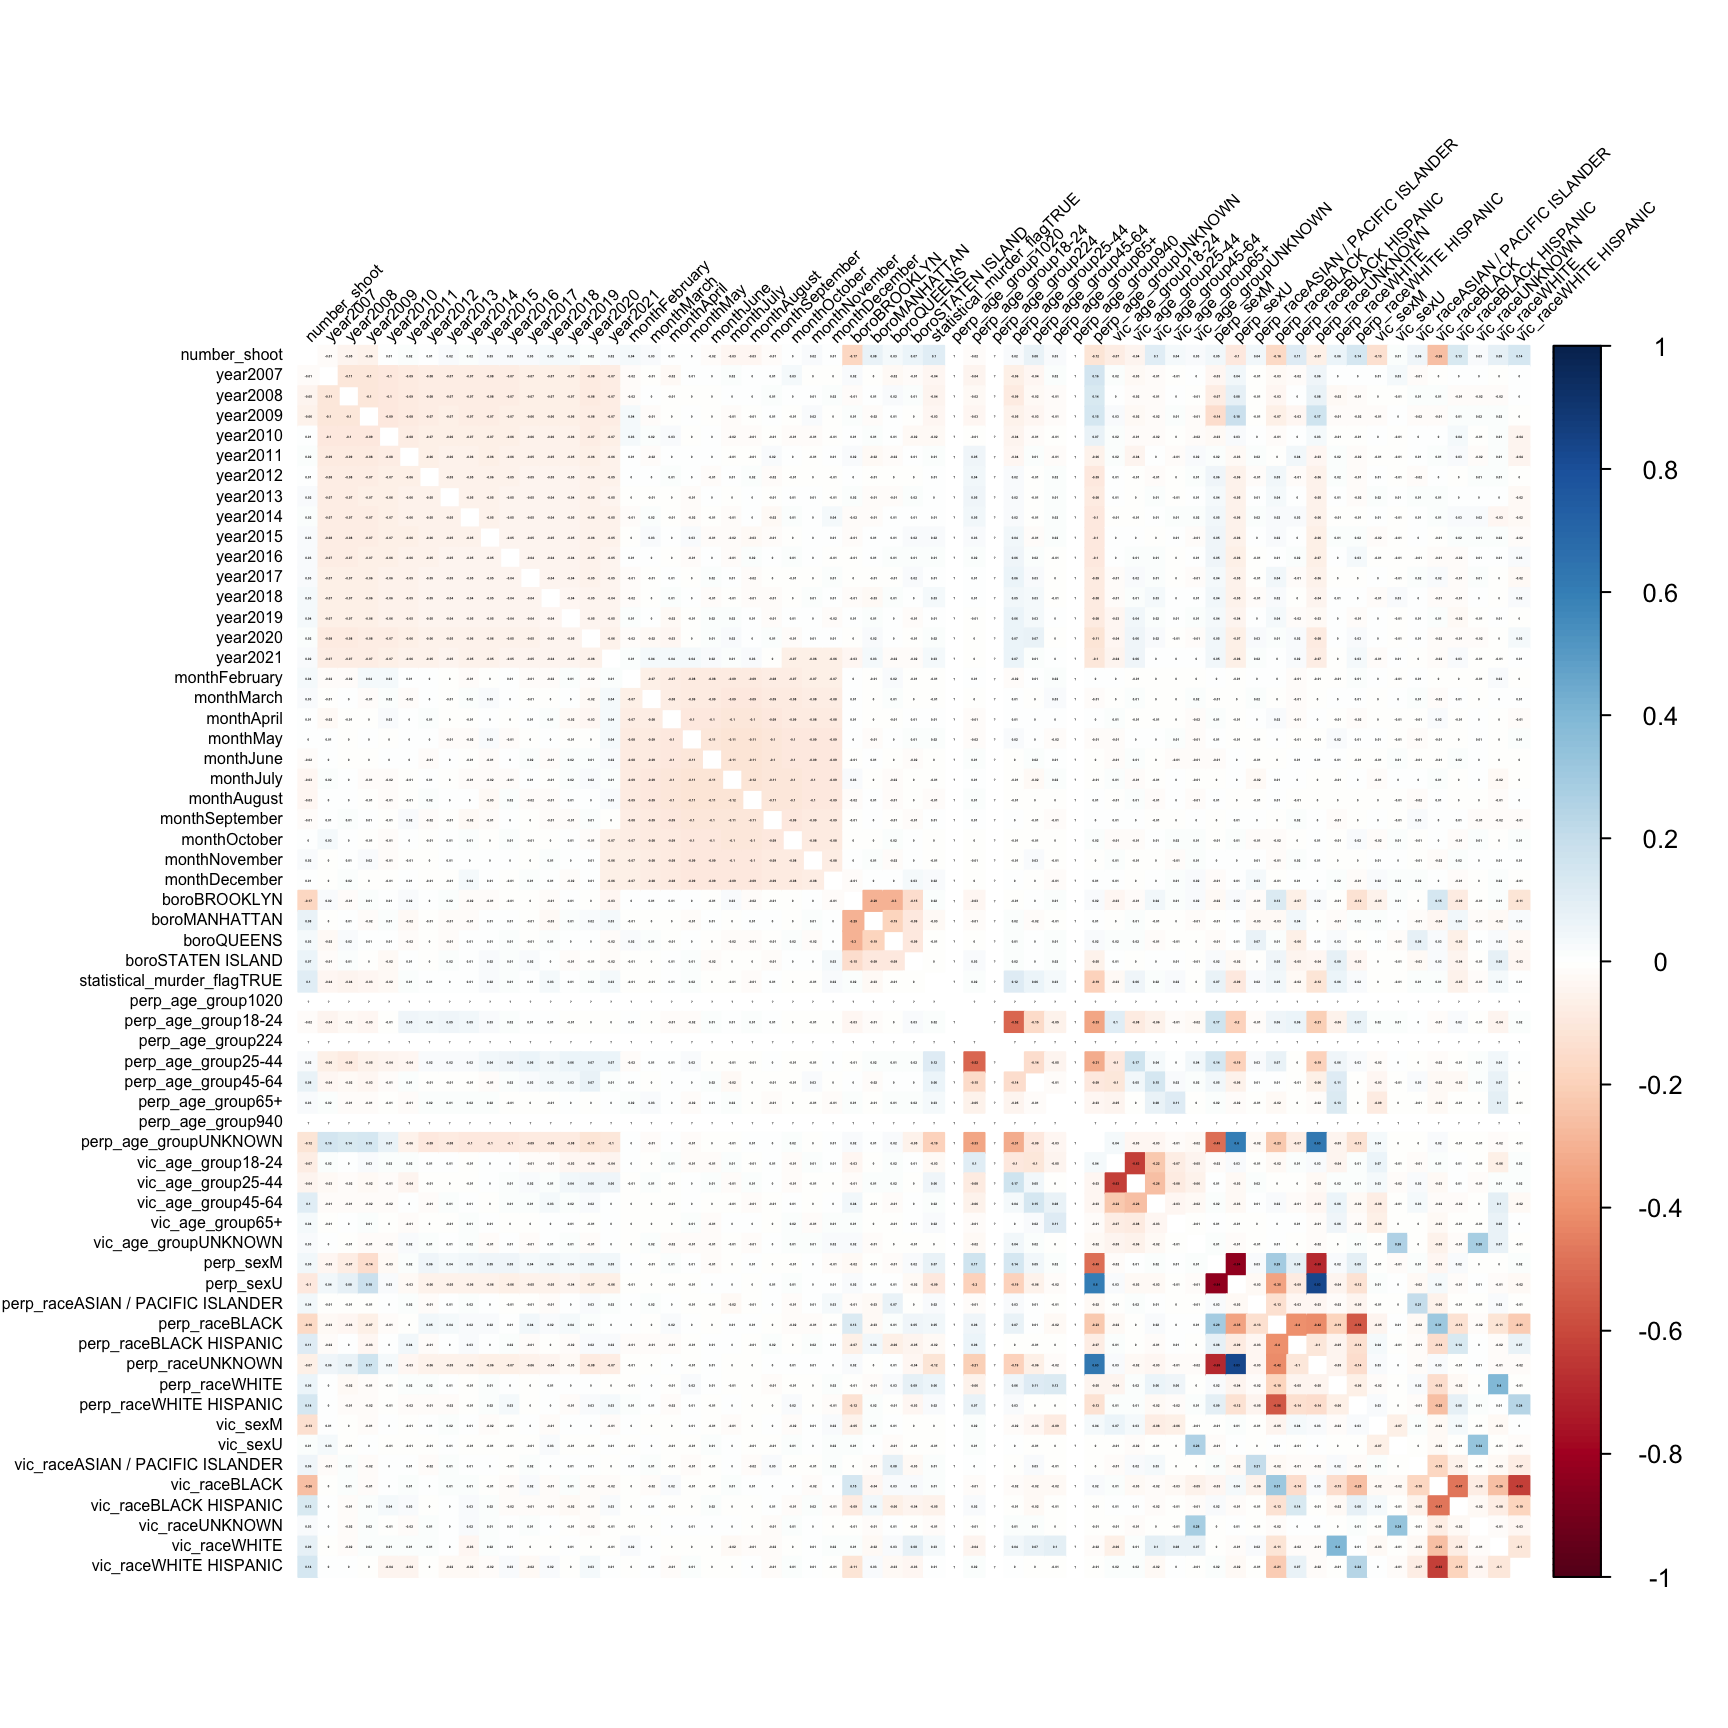
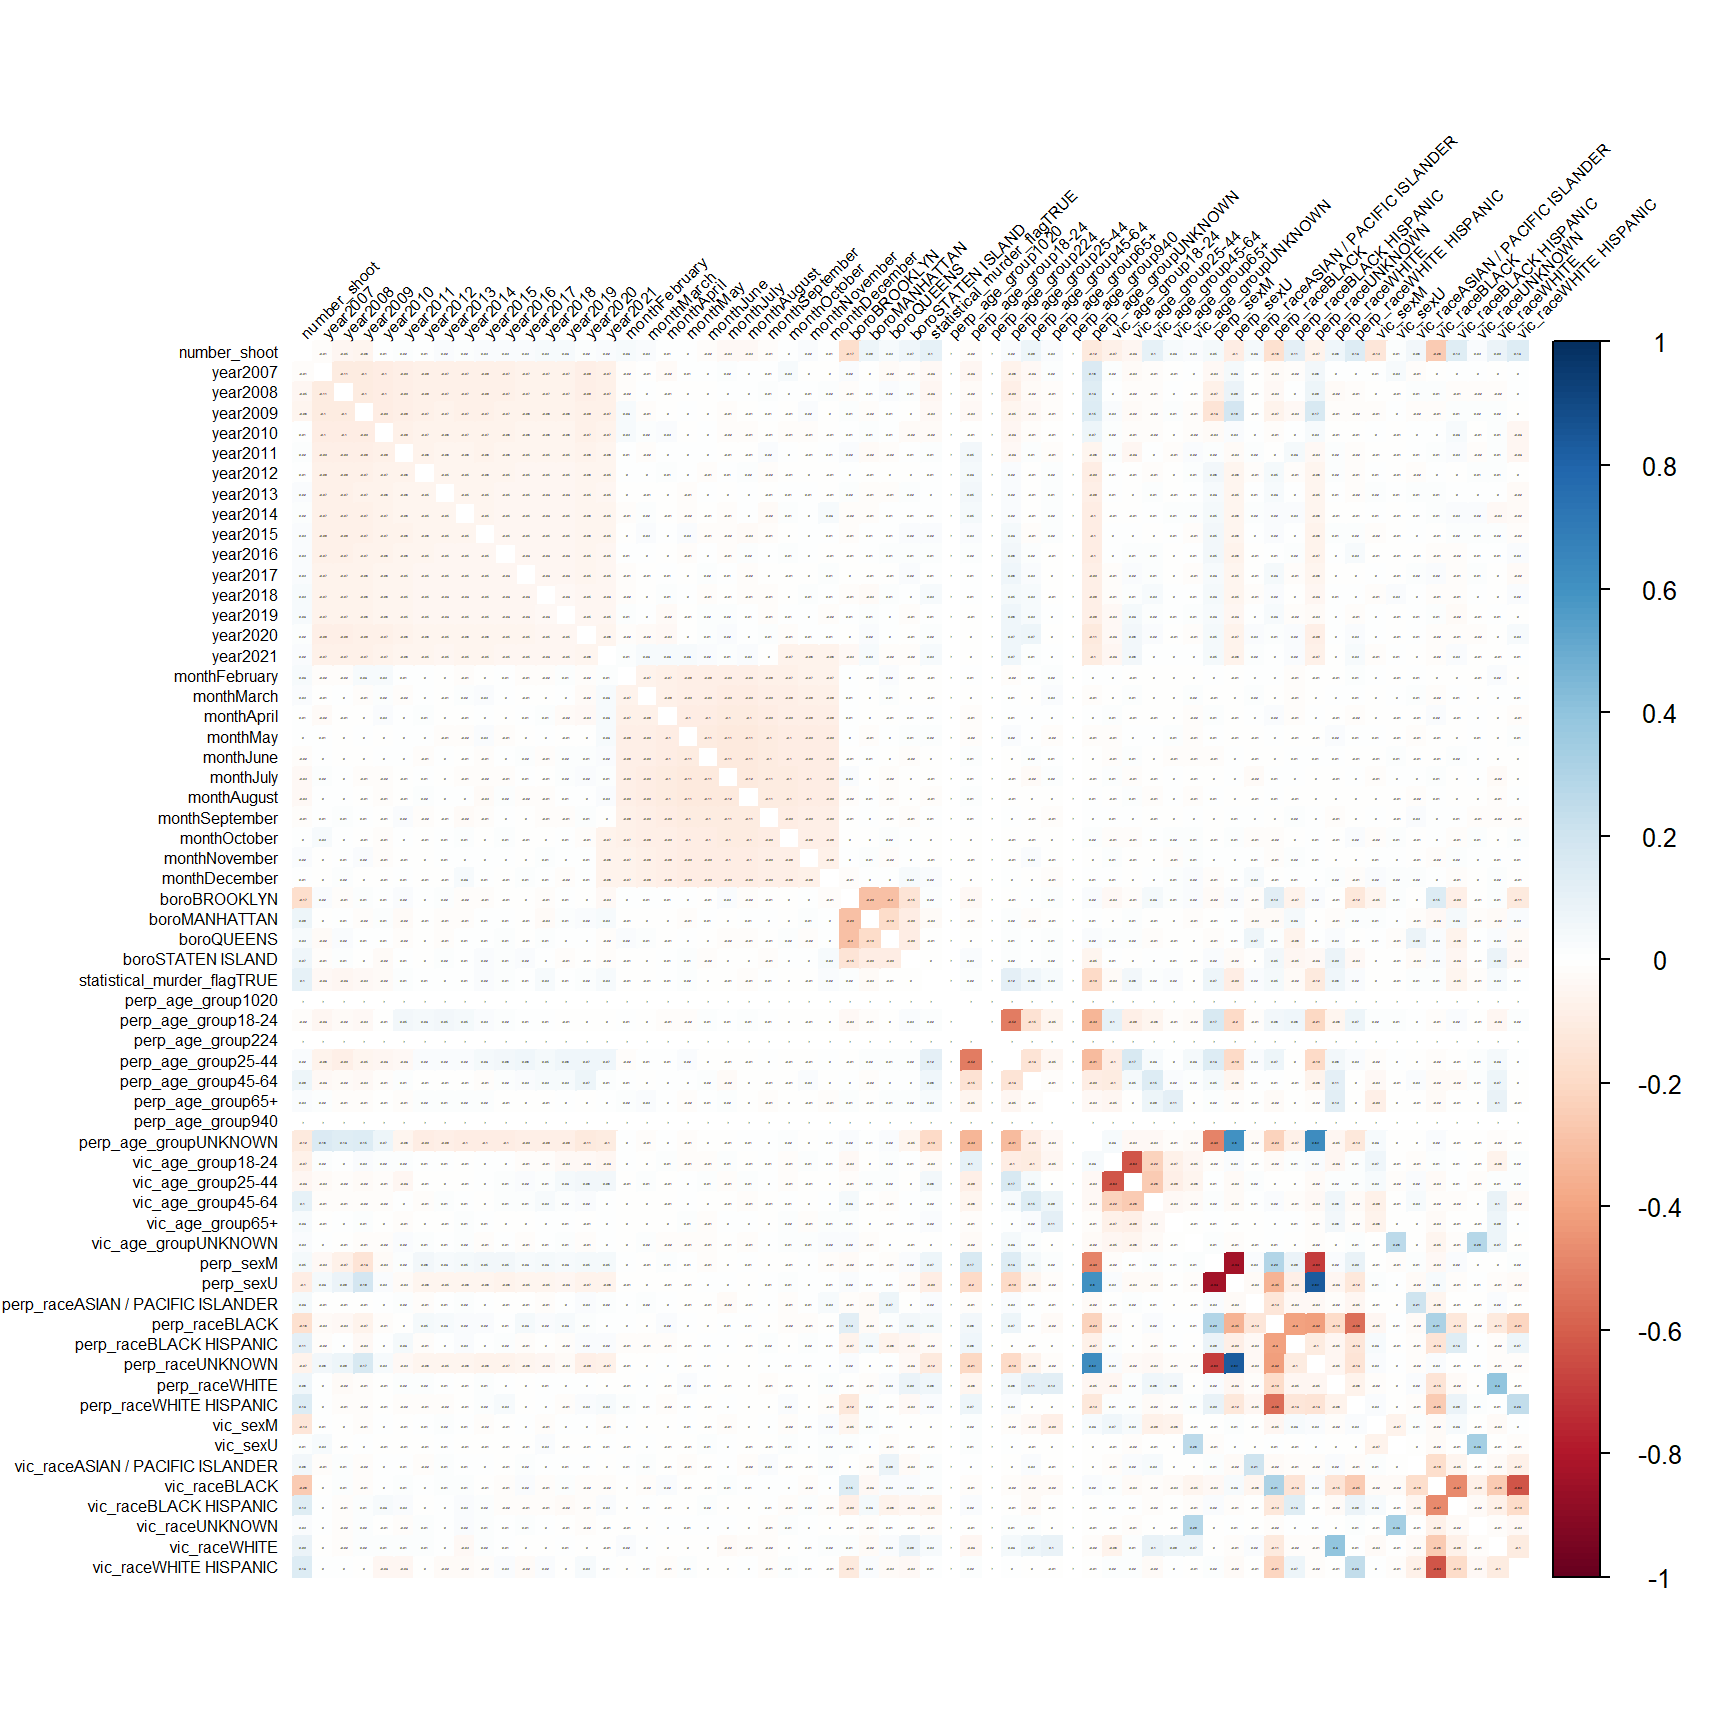
report updata regression

diff --git a/report.html b/report.html
@@ -640,6 +640,23 @@ div.tocify {
 </div>
 <div id="regression" class="section level2">
 <h2>Regression</h2>
+<div id="box_cox-transformation" class="section level3">
+<h3>Box_Cox transformation</h3>
+<p>The box-cox method is applied in the model to determine the transformation of outcome variable. The variable <code>location_desc</code> includes too many missing value. It was not included in the multiple linear regression analysis. All the missing values from our dataset was omitted. The λ is close to - 2, 1 / Y^2 transformation is applied. <img src="photo/boxcox.png" /> ### Regression Results After the transformation, we fit the multiple linear regrssion model and apply the backward stepwise method to select the best predictors. Below is the regression resuls <img src="photo/regression_results.png" /> <img src="photo/regression_results2.png" /> The regression analysis identified <code>year</code>, <code>borough</code>, <code>statistical murder flag</code>, <code>victim’s age group, and sex</code>, and <code>perpetrator’s sex</code> are significant predictors for the number of shooting cases in NYC. However, our predictors only explain 17 % of the outcome, which indicates that there are more factors influencing the booming case of shooting in NYC. The year 2019, 2020, and 2021 show an increased number of shootings when compared with 2006 while controlling other variables. In addition, we found race is not a strong and significant factor in predicting shooting numbers in NYC. And among the borough, compared with Bronx, Brooklyn have less number of shooting, and Manhattan, Queens, and Staten Island have more number of shooting.Among perpetrators, age under 18 have more number of shooting than other age groups. Among victims, 45-64 years old and 65+ years old have more number of shooting that age under 18 group.</p>
+</div>
+<div id="correlation-matrix" class="section level3">
+<h3>Correlation Matrix</h3>
+<p><img src="photo/correlation_matrix.png" /> The correlation analysis of NYC shooting data shows that the unknown sex and race of perpetrator is highly collinearited. And most of other variables are acceptable.</p>
+</div>
+<div id="multiple-linear-regression-disgnose" class="section level3">
+<h3>Multiple Linear Regression disgnose</h3>
+<p><img src="photo/resid_year.png" /> <img src="photo/resid_boro.png" /> <img src="photo/resid_plot.png" /> The residuals plot of year and borough did not show any distribution pattern which indicated the good fit of model. However, the residual density plot indicated some outliers.</p>
+</div>
+<div id="cross-validation" class="section level3">
+<h3>Cross Validation</h3>
+<p><img src="photo/cv.png" /> Our cross validation include three different models. The first model includes all the predictors. The second model includes only the significant predictors. the third model includes interaction of borough and sex.</p>
+<p>The cross validation section, the root mean square deviations were calculated for all the three models. the RMSE plot shows that RMSE of all model are similar. And the first model have the lowest RMSE, which indicates the first model may be the best model to explain the outcome - number of shooting in NYC.</p>
+</div>
 </div>
 <div id="shiny-app" class="section level2">
 <h2>Shiny App</h2>
@@ -650,6 +667,7 @@ div.tocify {
 </div>
 <div id="discussion" class="section level2">
 <h2>Discussion</h2>
+<p>(regression part)The raw data included many categorical variables, which amplified the difficulty in fitting a regression model. To ensure the accuracy of our regression model, we utilized the backward stepwise method and correlation matrix to select the appropriate variables to fit our regression model. We also conducted a regression model diagnosis and cross-validation to inspect the validity of our regression model. However, our predictors only explain 17 % of the outcome, which indicates that there are more factors influencing the booming case of shooting in NYC. The regression model indicates that race is not a valuable and significant predictor of shooting number, which means the comprehensive impact of the Covid-19 pandemic on everyone everywhere. Borough is identified as a strong and significant predictor of shooting numbers in NYC by our regression model and data visualization. We can observe the different densities of shooting numbers in different boroughs of NYC, which implies the inequalities and disparities of different boroughs.</p>
 </div>
 
 
